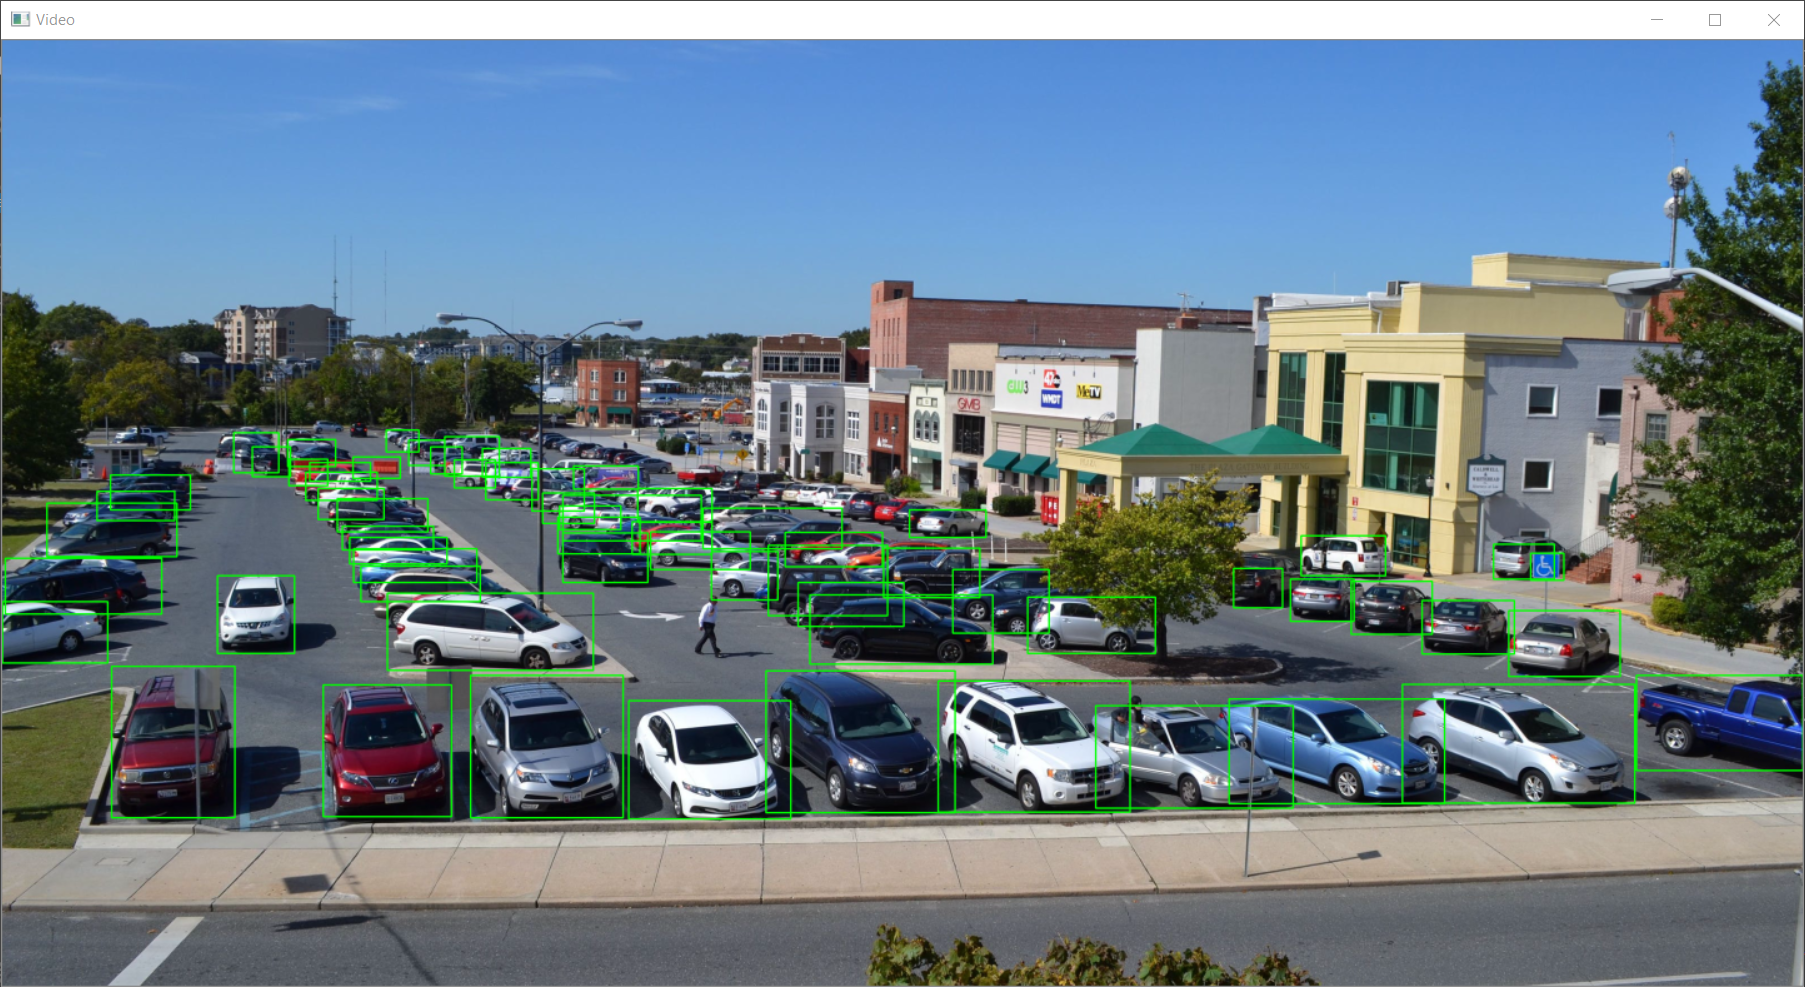
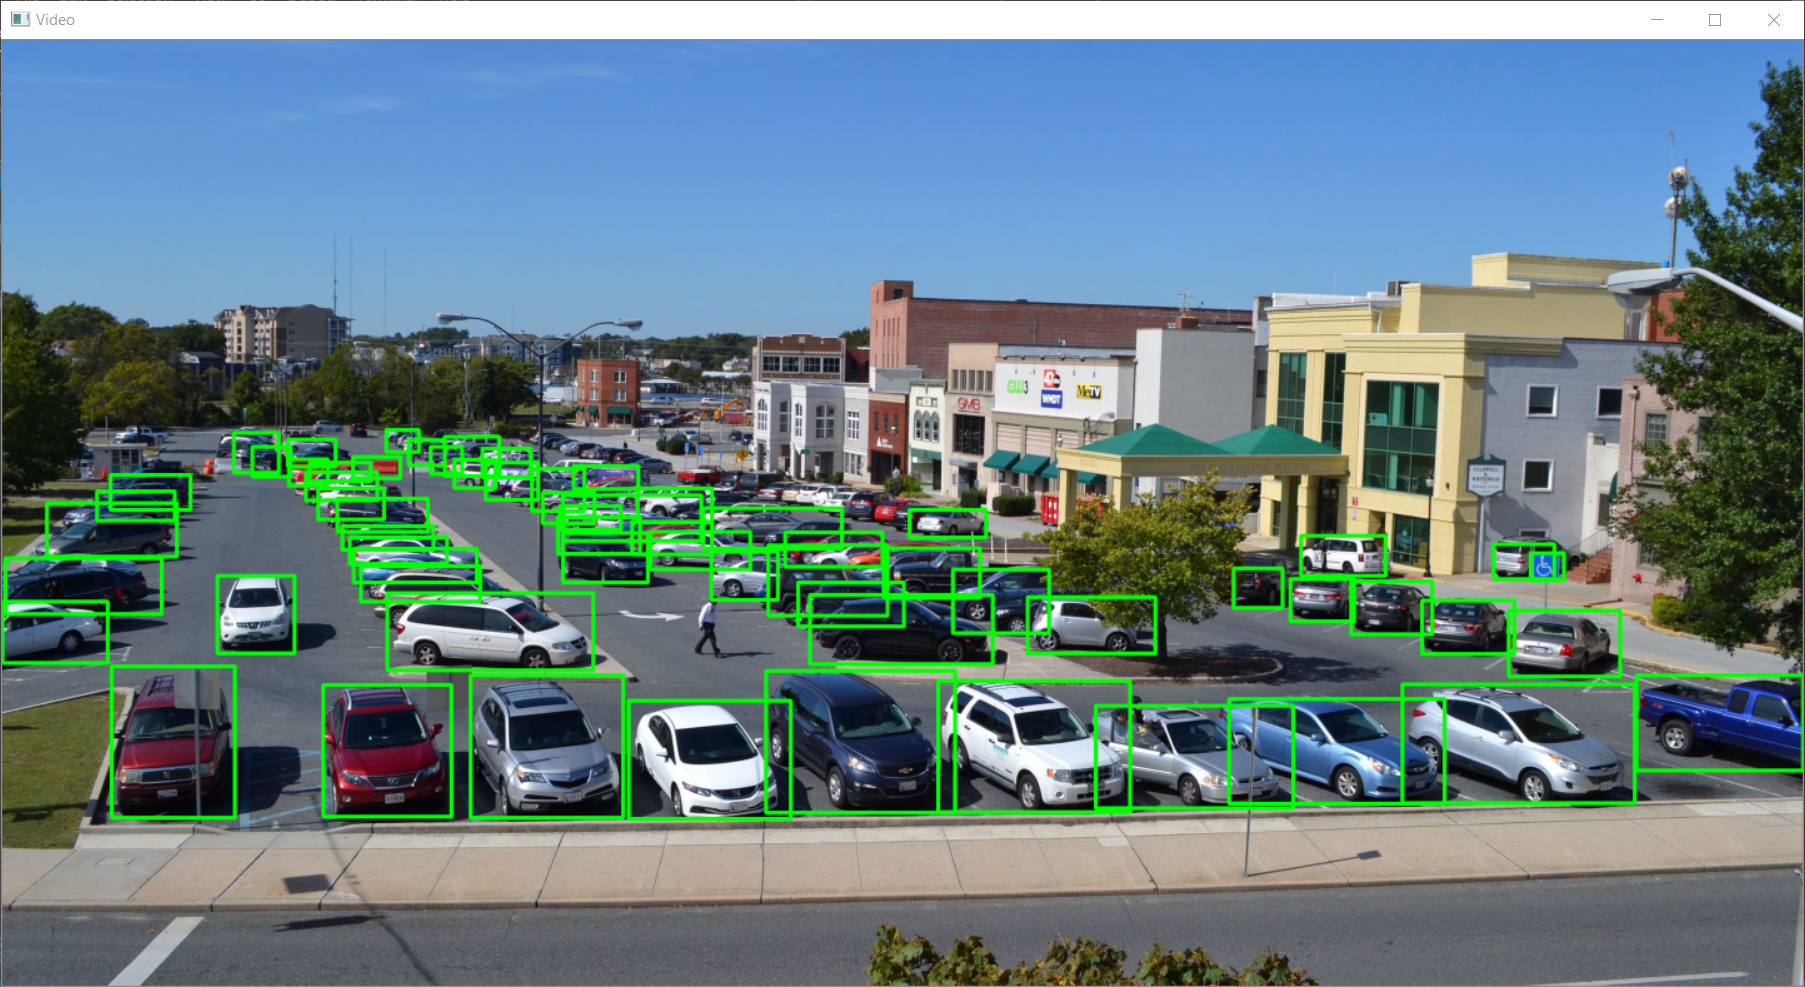
Checked out to garciart branch. Fixed colors and timestamp.

diff --git a/demos/demo5.py b/demos/demo5.py
@@ -5,12 +5,12 @@ from pathlib import Path
 import mrcnn.config
 from mrcnn.model import MaskRCNN
 import numpy as np
+import datetime
 from numpy import array
 from shapely.geometry import asPoint
 from shapely.geometry import Polygon
 
 # Configuration that will be used by the Mask-RCNN library
-
 
 class MaskRCNNConfig(mrcnn.config.Config):
     NAME = "coco_pretrained_model_config"
@@ -63,6 +63,12 @@ VIDEO_DIR = os.path.join(ROOT_DIR, "demo_videos")
 # FRAME_SOURCE = [(VIDEO_DIR + "\\demo_video1.mp4"),(VIDEO_DIR + "\\demo_video2.mp4"),(VIDEO_DIR + "\\demo_video3.mp4")]
 FRAME_SOURCE = [(IMAGE_DIR + "\\demo_image1.jpg")]
 
+# Get UTC time before loop
+local_timezone = datetime.datetime.now(
+    datetime.timezone.utc).astimezone().tzinfo
+timestamp = datetime.datetime.now(
+    local_timezone).strftime("%Y-%m-%d %H:%M:%S %Z")
+
 for f in FRAME_SOURCE:
     # Load the video file we want to run detection on
     video_capture = cv2.VideoCapture(f)
@@ -94,30 +100,46 @@ for f in FRAME_SOURCE:
         poly_pts = ([[751, 1150], [3200, 1140], [3200, 1350], [816, 1400], [816, 1300]],
                     [[150, 1400], [815, 1400], [815, 1300], [750, 1150], [240, 1140]])
 
-        # BGR colors: Yellow, Cyan, Blue, Green, White, Red, Magenta, Black
-        colors = [[0, 255, 255], [255, 255, 0], [255, 0, 0], [0, 255, 0], [
-            255, 255, 255], [0, 0, 255], [255, 0, 255], [0, 0, 0]]
+        # BGR colors: Blue, Orange, Red, Gray, Cyan, Yellow, Pink, White
+        colors = [[255, 0, 0], [0, 127, 255], [0, 0, 255], [127, 127, 127], [
+            255, 255, 0], [0, 255, 255], [127, 0, 255], [255, 255, 255]]
+
+        # Make an overlay for transparent boxes
+        overlay = frame.copy()
 
         for index, p in enumerate(poly_pts, start=0):
             # Hold count of cars in zone
             count = 0
-            # Draw the zone
-            cv2.polylines(frame, np.int32(
-                [np.array(p)]), True, colors[index], 10)
+            # Draw the filled zones
+            cv2.fillPoly(overlay, np.int32([np.array(p)]), colors[index + 4])
             # Draw each box on the frame. Do not use rgb_image with cv2!
             for box in car_boxes:
                 # Get the box coordinates
                 y1, x1, y2, x2 = box
                 # Only show cars in the zones!
                 if((Polygon([(x1, y1), (x2, y1), (x1, y2), (x2, y2)])).intersects(Polygon(asPoint(array(p))))):
-                    # Draw the box
-                    cv2.rectangle(frame, (x1, y1), (x2, y2), colors[index], 5)
+                    # Draw the box and add to overlay
+                    cv2.rectangle(frame, (x1, y1),
+                                  (x2, y2), colors[index], 5)
                     # Count car in zone
                     count += 1
                     # Delete the car to avoid double counting
                     np.delete(car_boxes, box)
 
             print("Total cars in zone {}: {}".format(poly_pts.index(p), count))
+
+        # Set transparency for boxes
+        alpha = 0.4
+        # Add overlay to frame
+        frame = cv2.addWeighted(overlay, alpha, frame, 1 - alpha, 0)
+
+        # Draw center crosshair
+        height, width, channels = frame.shape
+        cv2.drawMarker(frame, (int(width / 2), int(height / 2)),
+                       [255, 255, 0], cv2.MARKER_TRIANGLE_UP, 16, 2, cv2.LINE_4)
+        # Add timestamp
+        cv2.putText(frame, timestamp, (10, 30),
+                    cv2.FONT_HERSHEY_SIMPLEX, 1, [0, 0, 255], 1)
 
         # Resize image if necessary
         scaling = int(

diff --git a/demos/demo4.py b/demos/demo4.py
@@ -18,8 +18,10 @@ VIDEO_DIR = os.path.join(ROOT_DIR, "demo_videos")
 FRAME_SOURCE = [(IMAGE_DIR + "\\demo_image1.jpg")]
 
 # Get UTC time before loop
-local_timezone = datetime.datetime.now(datetime.timezone.utc).astimezone().tzinfo
-timestamp = datetime.datetime.now(local_timezone).strftime("%Y-%m-%d %H:%M:%S %Z")
+local_timezone = datetime.datetime.now(
+    datetime.timezone.utc).astimezone().tzinfo
+timestamp = datetime.datetime.now(
+    local_timezone).strftime("%Y-%m-%d %H:%M:%S %Z")
 
 for f in FRAME_SOURCE:
     # Load the video file we want to run detection on
@@ -31,27 +33,45 @@ for f in FRAME_SOURCE:
         poly_pts = ([[751, 1150], [3200, 1140], [3200, 1350], [816, 1400], [816, 1300]],
                     [[150, 1400], [815, 1400], [815, 1300], [750, 1150], [240, 1140]])
 
-        # BGR colors: Yellow, Cyan, Blue, Green, White, Red, Magenta, Black
-        colors = [[0,255,255],[255,255,0],[255,0,0],[0,255,0],[255,255,255],[0,0,255],[255,0,255],[0,0,0]]
+        # BGR colors: Blue, Orange, Red, Gray, Cyan, Yellow, Pink, White
+        colors = [[255, 0, 0], [0, 127, 255], [0, 0, 255], [127, 127, 127], [
+            255, 255, 0], [0, 255, 255], [127, 0, 255], [255, 255, 255]]
 
+        # Make an overlay for transparent boxes
+        overlay = frame.copy()
+
+        # Draw the filled zones
         for index, p in enumerate(poly_pts, start=0):
-            cv2.polylines(frame, np.int32([np.array(p)]), True, colors[index], 10)
+            cv2.fillPoly(overlay, np.int32([np.array(p)]), colors[index + 4])
+
+        # Set transparency for boxes
+        alpha = 0.4
+        # Add overlay to frame
+        frame = cv2.addWeighted(overlay, alpha, frame, 1 - alpha, 0)
+
+        # Optional Draw the zone boundaries
+        for index, p in enumerate(poly_pts, start=0):
+            cv2.polylines(frame, np.int32(
+                [np.array(p)]), True, colors[index], 10)
 
         # Draw center crosshair
         height, width, channels = frame.shape
-        cv2.drawMarker(frame, (int(width / 2), int(height / 2)), [255,255,0], cv2.MARKER_TRIANGLE_UP, 16, 2, cv2.LINE_4)
+        cv2.drawMarker(frame, (int(width / 2), int(height / 2)),
+                       [255, 255, 0], cv2.MARKER_TRIANGLE_UP, 16, 2, cv2.LINE_4)
         # Add timestamp
-        cv2.putText(frame, timestamp, (10, 30), cv2.FONT_HERSHEY_SIMPLEX, 1, [0,0,255], 1)
+        cv2.putText(frame, timestamp, (10, 30),
+                    cv2.FONT_HERSHEY_SIMPLEX, 1, [0, 0, 255], 1)
 
         # Resize image if necessary
-        scaling = int((768 * 100) / frame.shape[0]) if frame.shape[0] > 768 else 1
+        scaling = int(
+            (768 * 100) / frame.shape[0]) if frame.shape[0] > 768 else 1
         print('Original image dimensions : ', frame.shape)
         width = int(frame.shape[1] * scaling / 100)
         height = int(frame.shape[0] * scaling / 100)
         dim = (width, height)
-        frame = cv2.resize(frame, dim, interpolation = cv2.INTER_AREA)
+        frame = cv2.resize(frame, dim, interpolation=cv2.INTER_AREA)
         print('New image dimensions : ', frame.shape)
-        
+
         # Show the frame of video on the screen
         cv2.imshow('Video', frame)
         # Save to file

diff --git a/demos/demo3.py b/demos/demo3.py
@@ -88,7 +88,7 @@ for f in FRAME_SOURCE:
             print("Car: ", box)
             y1, x1, y2, x2 = box
             # Draw the box
-            cv2.rectangle(frame, (x1, y1), (x2, y2), (0, 255, 0), 2)
+            cv2.rectangle(frame, (x1, y1), (x2, y2), (0, 255, 0), 5)
 
         # Resize image if necessary
         scaling = int((768 * 100) / frame.shape[0]) if frame.shape[0] > 768 else 1
